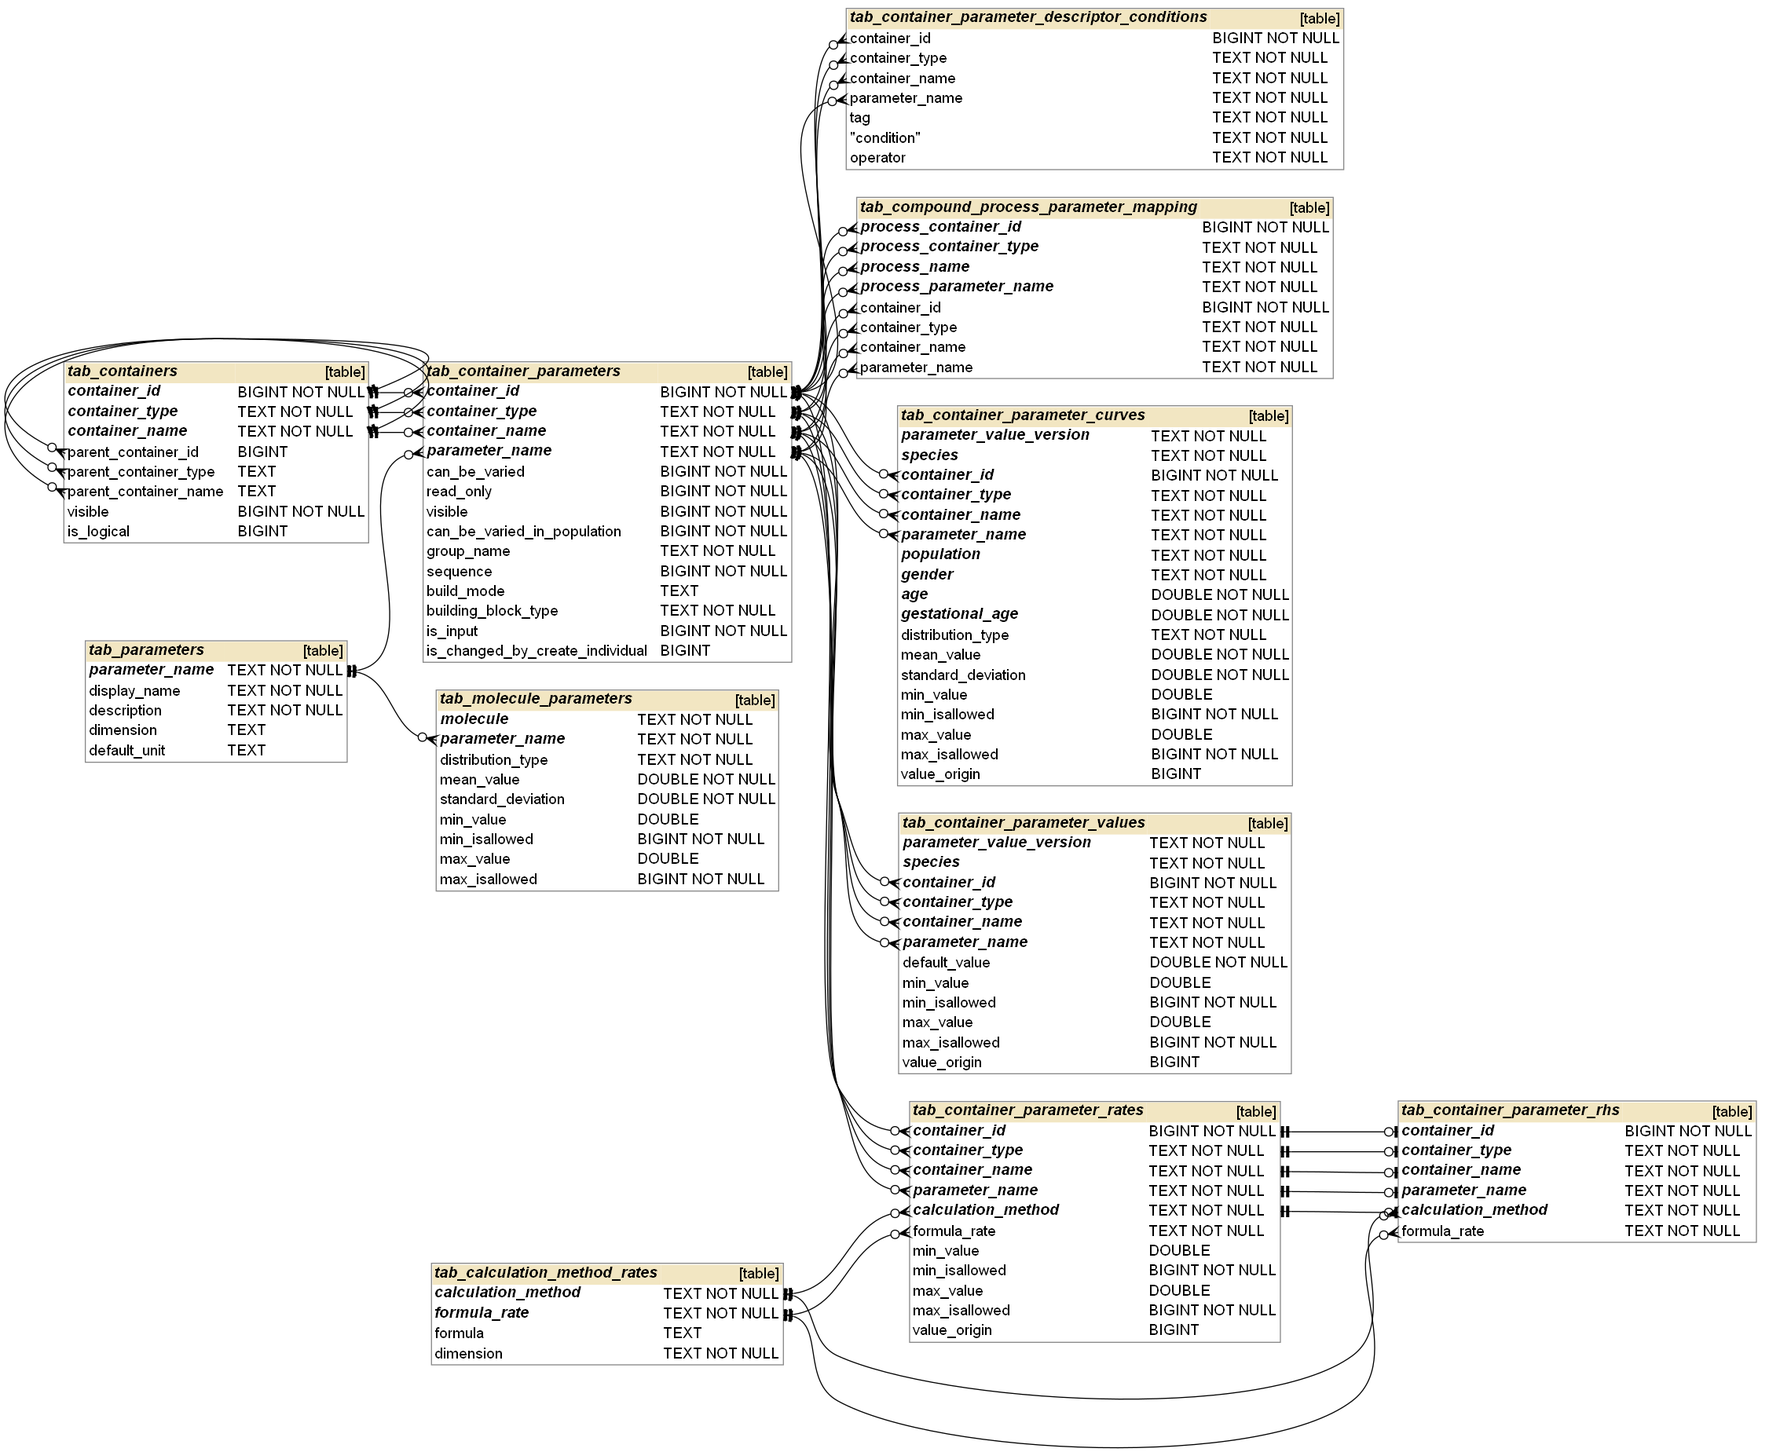
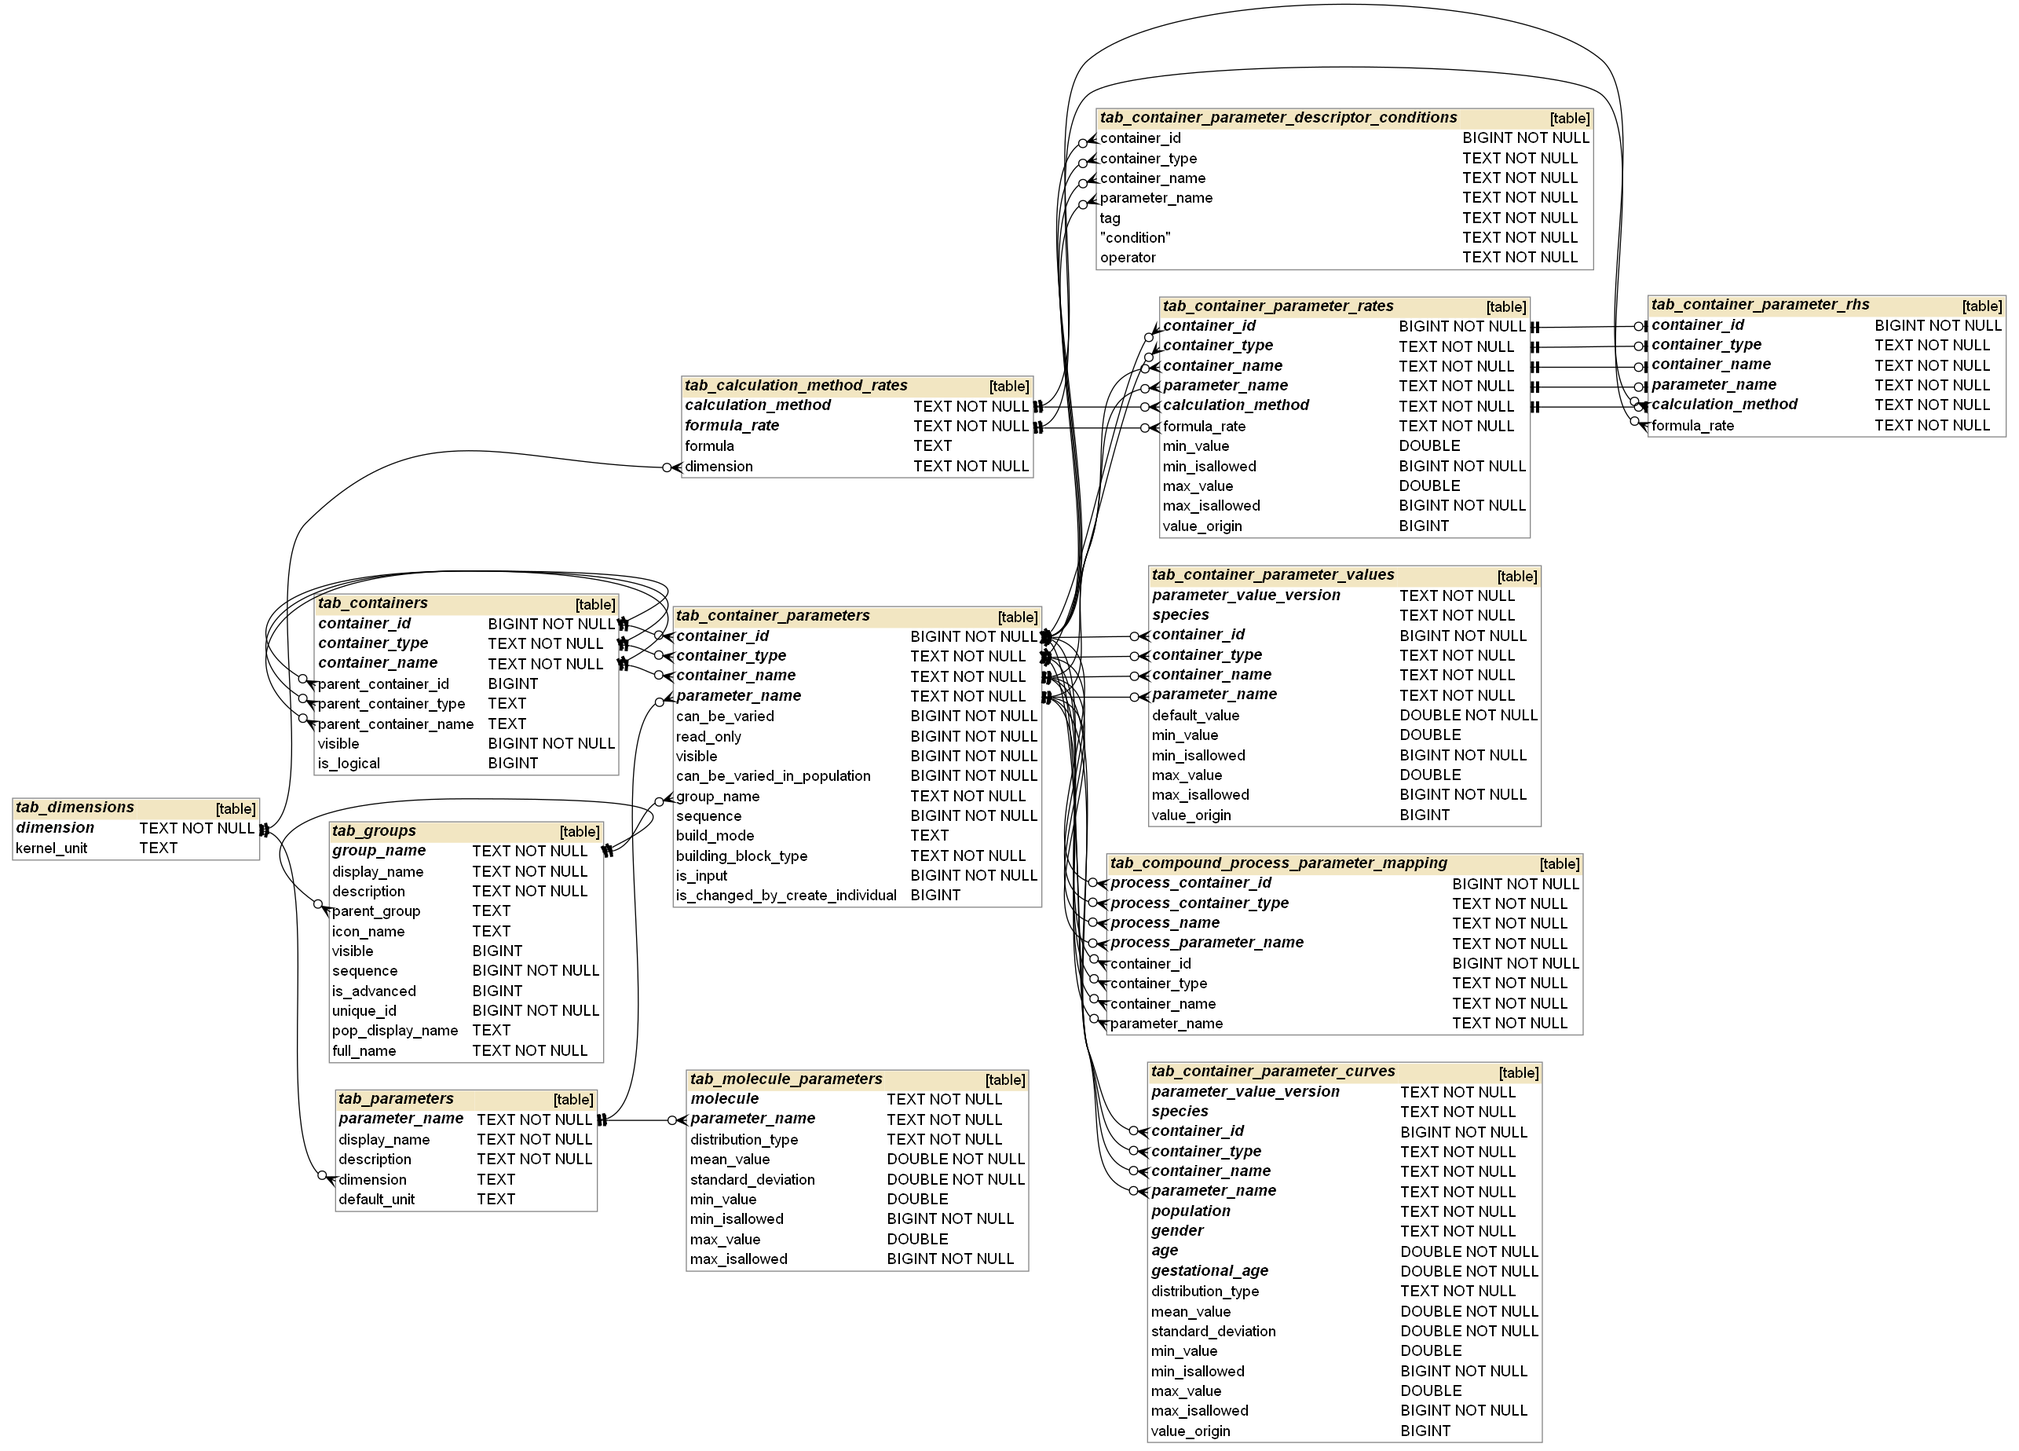
Documented "Container parameters"

Changed region(s): [[0.0, 0.0, 0.9947, 1.0], [0.3108, 0.3395, 0.3419, 0.3703]]

diff --git a/PKSim-DataBase/DB.md b/PKSim-DataBase/DB.md
@@ -1,5 +1,9 @@
 # General remarks
 
+When a database value describes a numeric property of a quantity (e.g., parameter value, allowed value range, etc.), the value is always stored in the **base unit of the dimension of the quantity**. 
+
+Check the [OSP Dimensions Repository](https://github.com/Open-Systems-Pharmacology/OSPSuite.Dimensions/blob/master/OSPSuite.Dimensions.xml) to see what the base unit of a dimension is!
+
 Some of the common properties used in many tables:
 
 * **display_name** The name of the entity to be used in the UI in PK-Sim.
@@ -13,6 +17,11 @@ Some of the common properties used in many tables:
 * **icon_name** Defines which icon is used for the entity. 
 
   If not empty: the icon with the given name must be present in the `OSPSuite.Assets.Images`
+
+* {**min_value**, **min_isallowed**, **max_value**, **max_isallowed**} specifies the allowed range of values for a numeric quantity. 
+  * **min_isallowed** and **max_isallowed** define whether the corresponding bounded value range is open or closed.
+  * **min_value** can be empty. In this case the lower bound is `-Infinity`. The value of **min_isallowed** will then be ignored.
+  * **max_value** can be empty. In this case the upper bound is `+Infinity`. The value of **max_isallowed** will then be ignored.
 
 Boolean values are always represented as **integers restricted to {0, 1}**.
 
@@ -238,7 +247,7 @@ See [Localizations, directions, and initial concentrations of transport proteins
 **tab_known_transporters_containers** The *global* transporter direction defines the default transporter direction and polarity in each organ. However, some organs may have different transporter properties. To account for this, the *local* transporter direction and/or polarity can be overridden in some organs by entries in this table.
 See [Localizations, directions, and initial concentrations of transport proteins](https://docs.open-systems-pharmacology.org/working-with-pk-sim/pk-sim-documentation/pk-sim-expression-profile#localizations-directions-and-initial-concentrations-of-transport-proteins) in the OSP Suite documentation.
 
-## Species and populations
+## Species and populations <a id="section-species-and-populations"></a>
 
 *Species* defines the type of an individual (Human, Dog, Rat, Mouse, ...)
 
@@ -275,11 +284,11 @@ See [Localizations, directions, and initial concentrations of transport proteins
 
 **tab_population_containers** specifies which containers are available for the given population (s. the [Containers](#containers) section for the explanation how this information is used when creating a simulation).
 
-**tab_species_calculation_methods** If a parameter is defined by **formula** - this formula must be described by a *calculation method* (s. the [Calculation methods and parameter value versions](#calculation-methods-and-parameter-value-versions) section for details). In such a case, this calculation method must be assigned to the species, which happens in **tab_species_calculation_methods**. 
+**tab_species_calculation_methods** If a parameter is defined by **formula** - this formula must be described by a *calculation method* (s. the [Calculation methods and parameter value versions](#section-cm-and-pvv) section for details). In such a case, this calculation method must be assigned to the species, which happens in **tab_species_calculation_methods**. 
 
 * E.g. the calculation method `Lumen_Geometry` describes the calculation of some GI-related parameters based on the age and body height, which is currently applicable only to the species `Human`. Thus this calculation method is defined only for `Human` in the table
 
-**tab_species_parameter_value_versions** is the counterpart of *tab_species_calculation_methods* for parameters defined by a **constant value**. All constant values must be described by a *parameter value version* (s. the [Calculation methods and parameter value versions](#calculation-methods-and-parameter-value-versions) section for details).
+**tab_species_parameter_value_versions** is the counterpart of *tab_species_calculation_methods* for parameters defined by a **constant value**. All constant values must be described by a *parameter value version* (s. the [Calculation methods and parameter value versions](#section-cm-and-pvv) section for details).
 
 One of the reasons for introducing calculation methods and parameter value versions is that sometimes we have **more than one possible alternative** for defining a set of parameters.
 
@@ -290,7 +299,7 @@ One of the reasons for introducing calculation methods and parameter value versi
   | Human   | Body surface area - Du Bois   |
   | Human   | Body surface area - Mosteller |
 
-  The fact that the above calculation methods are **alternatives** is defined by the fact that both have the same **category** defined in **tab_calculation_methods** (see section [Calculation Methods and Parameter Value Versions](#calculation-methods-and-parameter-value-versions) for details). In PK-Sim, the user then has to select exactly one of these calculation methods (in the above example - during the individual creation, because the described parameters belong to the individual building block).
+  The fact that the above calculation methods are **alternatives** is defined by the fact that both have the same **category** defined in **tab_calculation_methods** (see section [Calculation Methods and Parameter Value Versions](#section-cm-and-pvv) for details). In PK-Sim, the user then has to select exactly one of these calculation methods (in the above example - during the individual creation, because the described parameters belong to the individual building block).
   
   ![](images/Screen01_SelectCalculationMethod.png)
 
@@ -336,9 +345,112 @@ One of the reasons for introducing calculation methods and parameter value versi
 
 ## Container parameters
 
+This section describes the definition of `{Container, Parameter}` combinations.
+Another (dynamic) way to define parameters is described in the section [Calculation method parameters](#calculation-method-parameters) below.
+
 ![](images/overview_container_parameters.png)
 
+**tab_parameters** describes an abstract parameter (e.g. "Volume"), which can be inserted in  various containers.
 
+* **dimension** must be one of the dimensions defined in the [OSP Dimensions Repository](https://github.com/Open-Systems-Pharmacology/OSPSuite.Dimensions/blob/master/OSPSuite.Dimensions.xml).
+* **default_unit** [OPTIONAL] The default unit to use in the UI (unless the user specifies otherwise). Must be one of the units defined for the parameter dimension in the [OSP Dimensions Repository](https://github.com/Open-Systems-Pharmacology/OSPSuite.Dimensions/blob/master/OSPSuite.Dimensions.xml). If empty: the default unit from the [OSP Dimensions Repository](https://github.com/Open-Systems-Pharmacology/OSPSuite.Dimensions/blob/master/OSPSuite.Dimensions.xml) for the parameter dimension is used.
+
+**tab_container_parameters** Specifies a `{Container, Parameter}` combination.
+
+* {**container_id**, **container_type**, **container_name**} specifies the container.
+
+* **parameter_name** specifies the parameter.
+
+* **visible** specifies if the parameter is shown in the PK-Sim UI (when sent to MoBi, this flag is translated into the *Advanced parameter* property.)
+
+* **read_only** specifies if the parameter can be edited by user in the PK-Sim UI
+
+* **can_be_varied** is used to allow the variation of some read-only parameters outside of PK-Sim (e.g. in MoBi or via the R interface).
+
+  Example: for the Arterial Blood container, the following parameters are defined in PK-Sim:
+
+  | container_name | parameter_name                 | can_be_varied | read_only | visible |
+  | -------------- | ------------------------------ | ------------- | --------- | ------- |
+  | ArterialBlood  | Allometric scale factor        | 0             | 1         | 0       |
+  | ArterialBlood  | Density (tissue)               | 1             | 1         | 0       |
+  | ArterialBlood  | Fraction vascular              | 1             | 1         | 1       |
+  | ArterialBlood  | Peripheral blood flow fraction | 1             | 0         | 1       |
+  | ArterialBlood  | Volume                         | 1             | 0         | 1       |
+  | ArterialBlood  | Weight (tissue)                | 1             | 1         | 0       |
+
+  If we create a sensitivity analysis in PK-Sim, only the parameters `Peripheral Blood Flow Fraction` and `Volume` will be available for variation because of the flag combination `{visible=1, read_only=0, can_be_varied=1}`.
+
+  However, if we send the simulation to MoBi and create a sensitivity analysis there, all parameters from the table above, except `Allometric Scale Factor`, will be available for variation (in *Advanced Mode*), due to `can_be_varied=1`.
+
+* **can_be_varied_in_population** specifies (together with **is_changed_by_create_individual** - s. below) if a parameter defined by value or by formula (s. below) can be used for the [User Defined Variability](https://docs.open-systems-pharmacology.org/working-with-pk-sim/pk-sim-documentation/pk-sim-creating-populations#user-defined-variability) in populations or population simulations.
+
+* **group_name** defines how parameters are displayed in the PK-Sim UI (s. below and also see the description in the [OSP documentation](https://docs.open-systems-pharmacology.org/working-with-pk-sim/pk-sim-documentation/pk-sim-simulations#running-a-simulation-in-an-individual)).
+
+* **build_mode** can be one of the following: `LOCAL`, `GLOBAL`, or `PROPERTY` (s. the [OSP documentation](https://docs.open-systems-pharmacology.org/working-with-mobi/mobi-documentation/model-building-components#parameters-formulas-and-tags) for details).
+
+* **building_block_type** can be one of the following: `COMPOUND`, `EVENT`, `FORMULATION`, `INDIVIDUAL`, `PROTOCOL`, `SIMULATION`. Used to determine which parameters can be added to a container at the building block level and which at the simulation level.
+
+* **is_input** is used to specify whether a parameter that has NOT been changed by the user should be exported to the project snapshot or not.
+
+  Why we need this: some parameters have default values **just for user convenience**. In principle, these values should be empty/NaN by default. However, to reduce the amount of user input required, the parameters have been set to some value. 
+
+  For example, when creating a new compound, the default value is "`Is small molecule = 1`". When the user creates a new small molecule compound, this value is apparently kept AS IS. But in fact it's a user input, which is implicit here, meaning that the value of "`Is small molecule`" must be exported to the snapshot in any case.
+
+* **is_changed_by_create_individual** indicates whether a parameter is changed by the *Create Individual algorithm*. This includes both *directly* modified parameters (= age-dependent parameters specified in **tab_container_parameter_curves**, see below) and *indirectly* modified parameters (such as the blood flows). Parameters with `is_changed_by_create_individual = 1` always appear in the *Distribution* tab of PK-Sim and are not available for user-defined variability.
+
+**tab_groups** defines the group hierarchy. In the parameter view of individuals/populations/simulations in PK-Sim, each visible parameter is displayed within its group. (s. [OSP Suite documentation](https://docs.open-systems-pharmacology.org/working-with-pk-sim/pk-sim-documentation/pk-sim-creating-individuals#anatomy-and-physiology) for details)
+
+* **parent_group** specifies the parent group (if any). Groups without a parent are displayed at the top level.
+* **is_advanced** defines whether the group is displayed in the simple view or only in the advanced view.
+* **visible** determines whether the group is visible in the parameter view. If a parameter is visible but belongs to a hidden group, it can still be displayed in either the Hierarchy View mode or in the "All" Parameters group.
+* **pop_display_name** [OPTIONAL] is used to display parameters in the "User Defined Variability" and "Distribution" tabs of populations and population simulations. If empty: the **display_name** of the group is used.
+* **full_name** is not used by PK-Sim. Shown in MoBi when a simulation is sent from PK-Sim (MoBi does not provide hierarchical parameter view by group like PK-Sim).
+* **unique_id** Unique group id used to identify a group in MoBi or when importing a simulation from pkml in PK-Sim. Should never be changed in the DB!
+  With each new OSP release a **GroupRepository.xml** file is generated by PK-Sim and placed under **C:\ProgramData\Open Systems Pharmacology\MoBi\X.Y**. Here the complete group information (display name, description, icon, ..) is stored. In pkml files, only the unique group ID is stored. 
+
+**tab_molecule_parameters** describes some global protein parameters (like "Reference concentration" etc.)
+
+The value of a container parameter can be defined in one of three possible ways:
+
+1. By a *formula* specified in **tab_container_parameter_rates** (s. the sections [Formulas (Calculation method - rates)](section-formulas) and [Calculation methods and parameter value versions](Calculation methods and parameter value versions) for more details).
+
+   A formula is neither species nor population dependent.
+
+2. By *constant value* specified in **tab_container_parameter_values** (s. the section [Calculation methods and parameter value versions](Calculation methods and parameter value versions) for more details).
+
+   A constant value is species dependent but not population dependent.
+
+3. By *age-dependent probability distribution* specified in **tab_container_parameter_curves** (described in detail below).
+
+It is possible, that for a combination {`container_id, container_type, container_name, parameter_name`} we have *several entries* in different tables (e.g. several formulas or formula and value etc.).
+
+When creating a building block or simulation, some entries are filtered out because the calculation method or parameter value version of the entry does not belong to the species/population/model of the created building block/simulation. 
+
+If we still have more than one entry - the corresponding calculation methods or parameter value versions must be of the **same category** (i.e. they represent possible **alternatives** for the parameter definition). See the sections [Species and Populations](#section-species-and-populations) and [Calculation Methods and Parameter Value Versions](#section-cm-and-pvv) for more details.
+
+**tab_container_parameter_curves** describes age-dependent and/or distributed parameters.
+
+How does it work (all bullet points below apply for a combination 
+{`parameter_value_version, species, container_id, container_type, container_name, parameter_name, population, gender, gestational_age`}):
+
+* N supporting age points are defined (N>=1): *Age_min*, … , *Age_max*
+* For an individual of given age: *mean* and *sd* value are interpolated based on the mean and sd of defined supported points
+  * For `Age < Age_min`: `mean(Age) = mean(Age_min)` and `sd(Age) = sd(Age_min)`
+  * For `Age > Age_max`: `mean(Age) = mean(Age_max)` and `sd(Age) = sd(Age_max)`
+  * For `Age_min ≤ Age ≤ Age_max`: both *mean* and *sd* are linearly interpolated between their 2 adjacent supporting points (if the *Age* is one of the supporting points, then *mean* and *sd* are obviously taken from it without interpolation).
+* Distribution type must be always the same for all ages.
+* If we have only age dependency but no distribution, we set `distribution_type=”discrete”` (constant) and `sd = 0` for all supporting points.
+* If both *mean* and *sd* are constant for all ages: we define only 1 supporting point (usually with `Age = 0`).
+
+**tab_compound_process_parameter_mapping** When creating a process in a compound building block, the values of the *Calculation parameters* of this process are taken from the mapped parameters of the **default individual** for the **default population** (the latter is specified in the PK-Sim options) of the species defined by the user during the process creation (see the [OSP Suite documentation](https://docs.open-systems-pharmacology.org/working-with-pk-sim/pk-sim-documentation/pk-sim-compounds-definition-and-work-flow#adme-properties) for details).
+
+**tab_container_parameter_rhs** If a parameter is defined by a differential equation, the right-hand side (RHS) of that equation is given in this table.
+
+**tab_container_parameter_descriptor_conditions** is used to restrict the creation of local protein parameters to specific containers.
+
+* **tag** Tag of a container in which the parameter should (or should not) be created.
+* **condition** One of the values defined by the [`enum CriteriaCondition`](https://github.com/Open-Systems-Pharmacology/PK-Sim/blob/develop/src/PKSim.Infrastructure/ORM/FlatObjects/CriteriaCondition.cs) in PK-Sim.
+* **operator** Specifies how to combine single criteria conditions for the combination {`container_id, container_type, container_name, parameter_name`}. Must be the same for all entries in this combination. Possible values are 'And' and 'Or'. 
 
 ## Calculation method parameters
 
@@ -346,13 +458,13 @@ One of the reasons for introducing calculation methods and parameter value versi
 
 
 
-## Formulas (Calculation method - rates)
+## Formulas (Calculation method - rates) <a id="section-formulas"></a>
 
 ![](images/overview_calculation_method_rates.png)
 
 
 
-## Calculation methods and parameter value versions
+## Calculation methods and parameter value versions <a id="section-cm-and-pvv"></a>
 
 ![](images/overview_CM_and_PVV.png)
 
